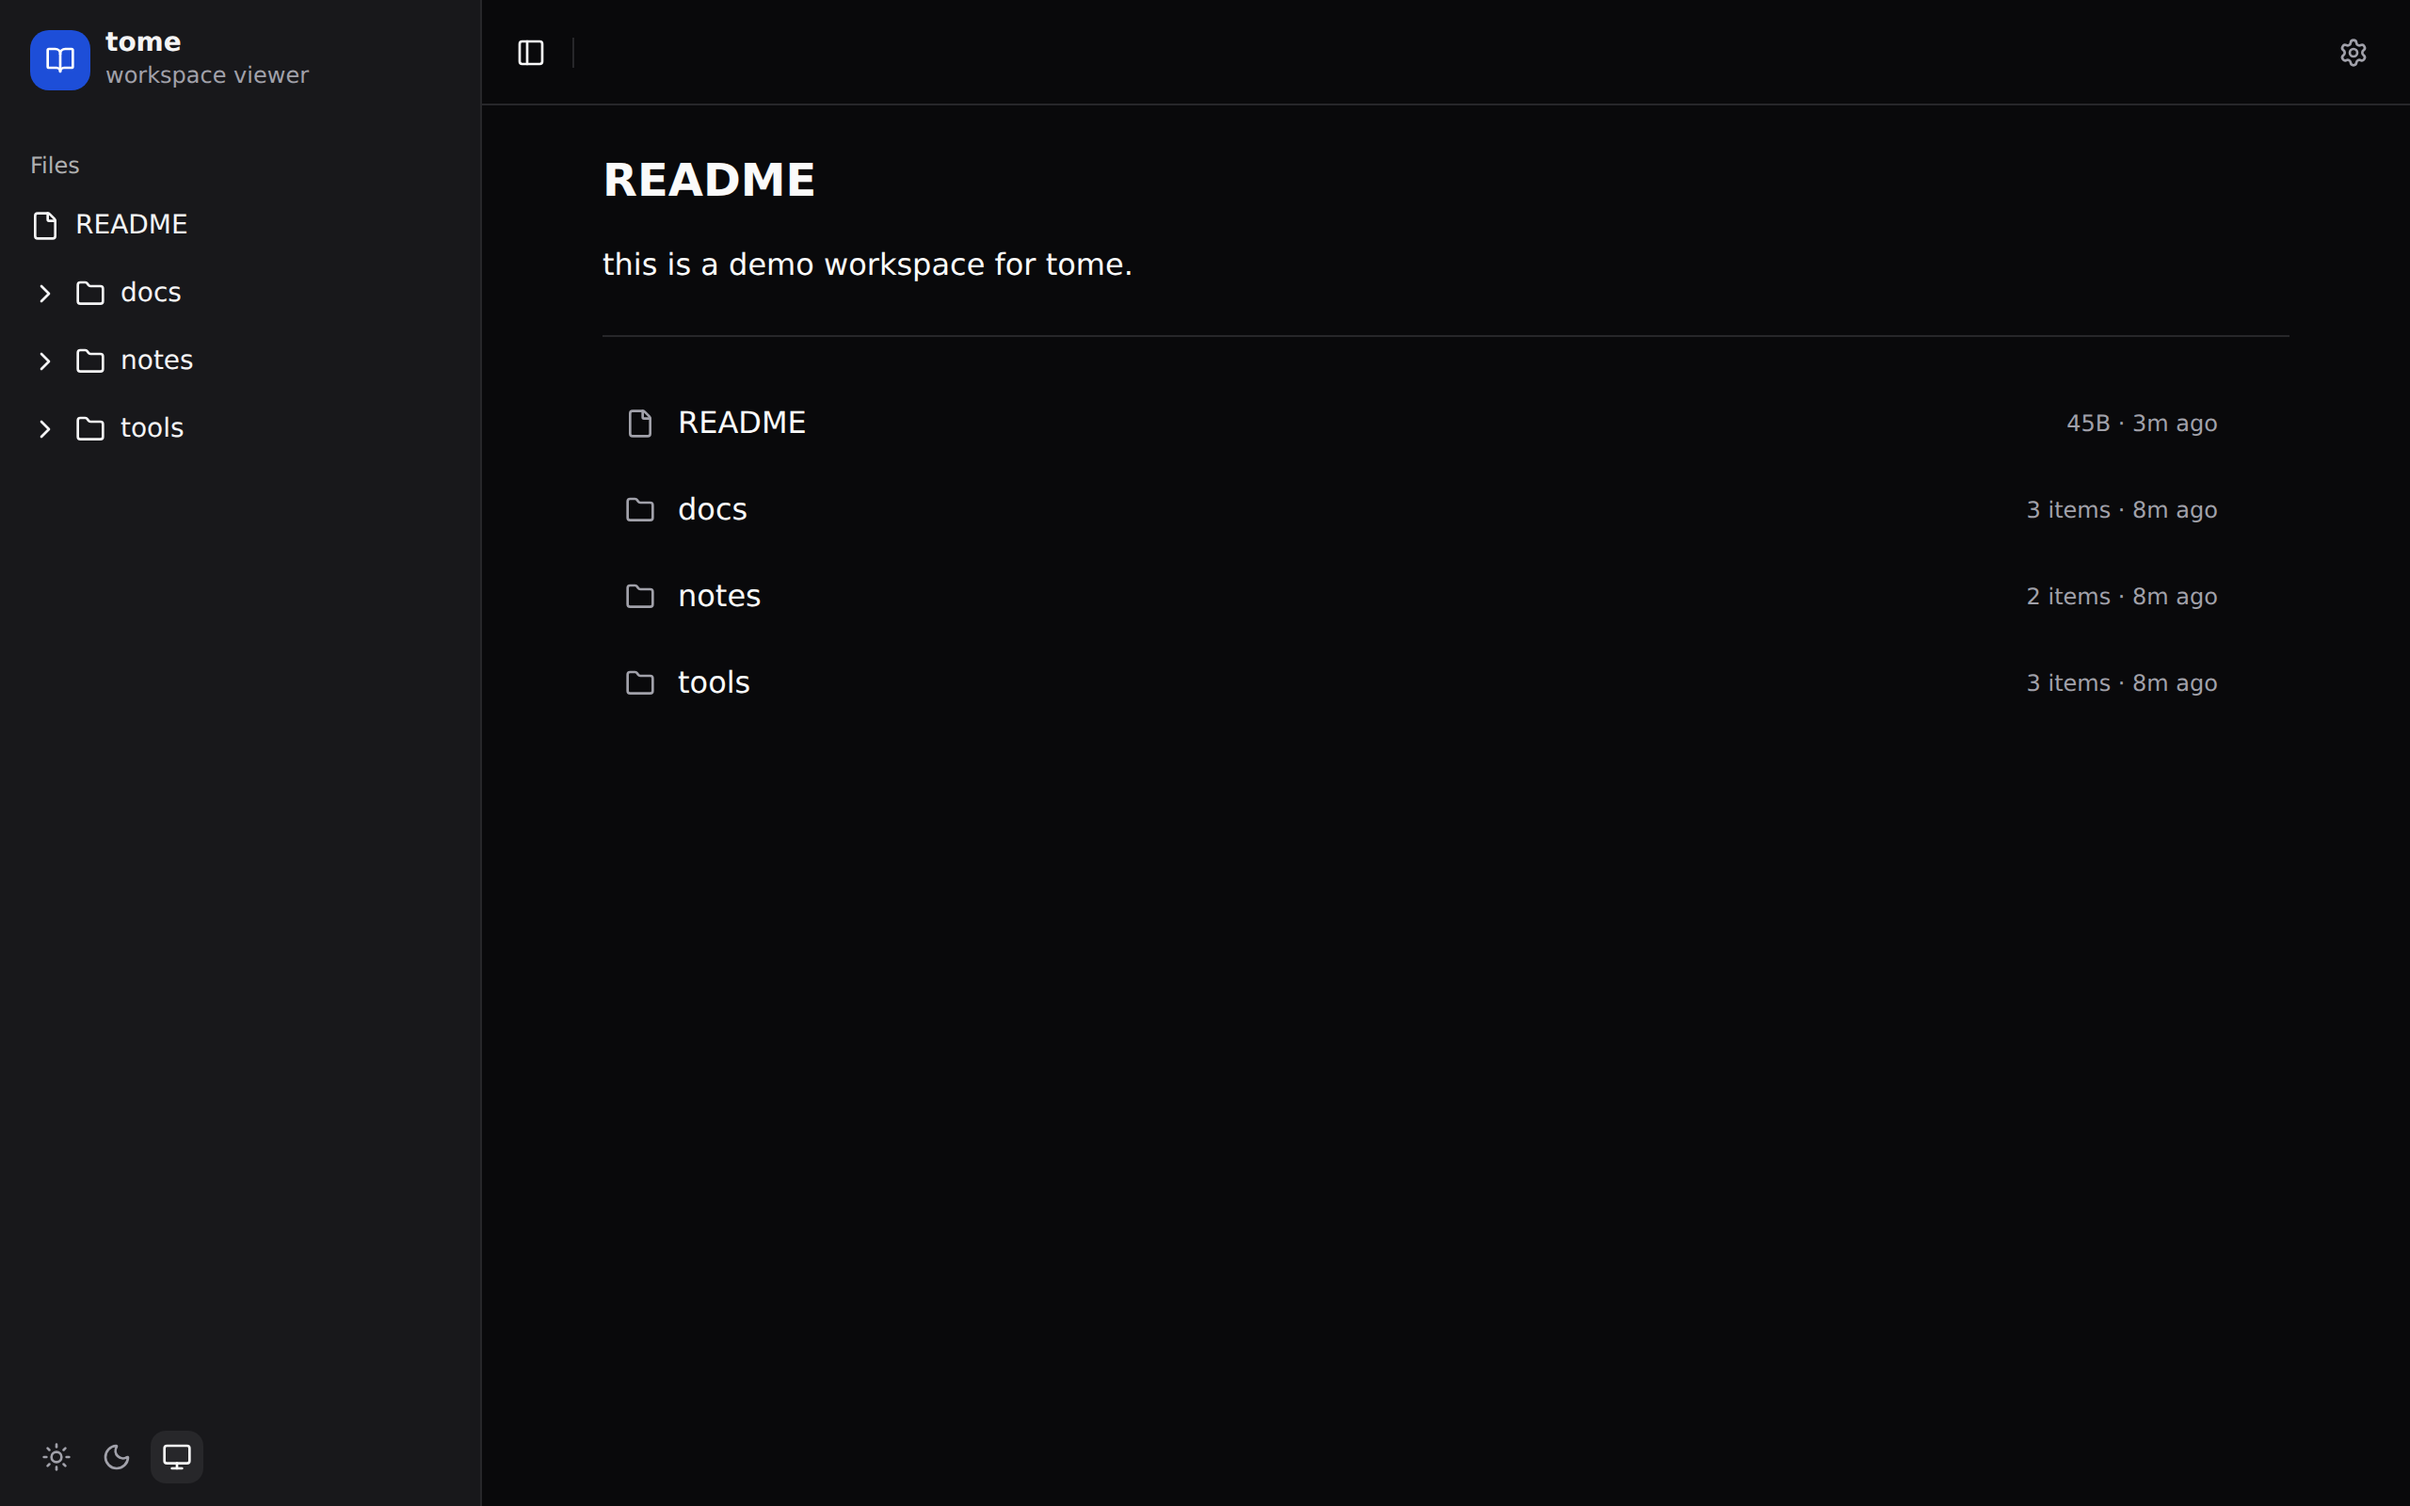
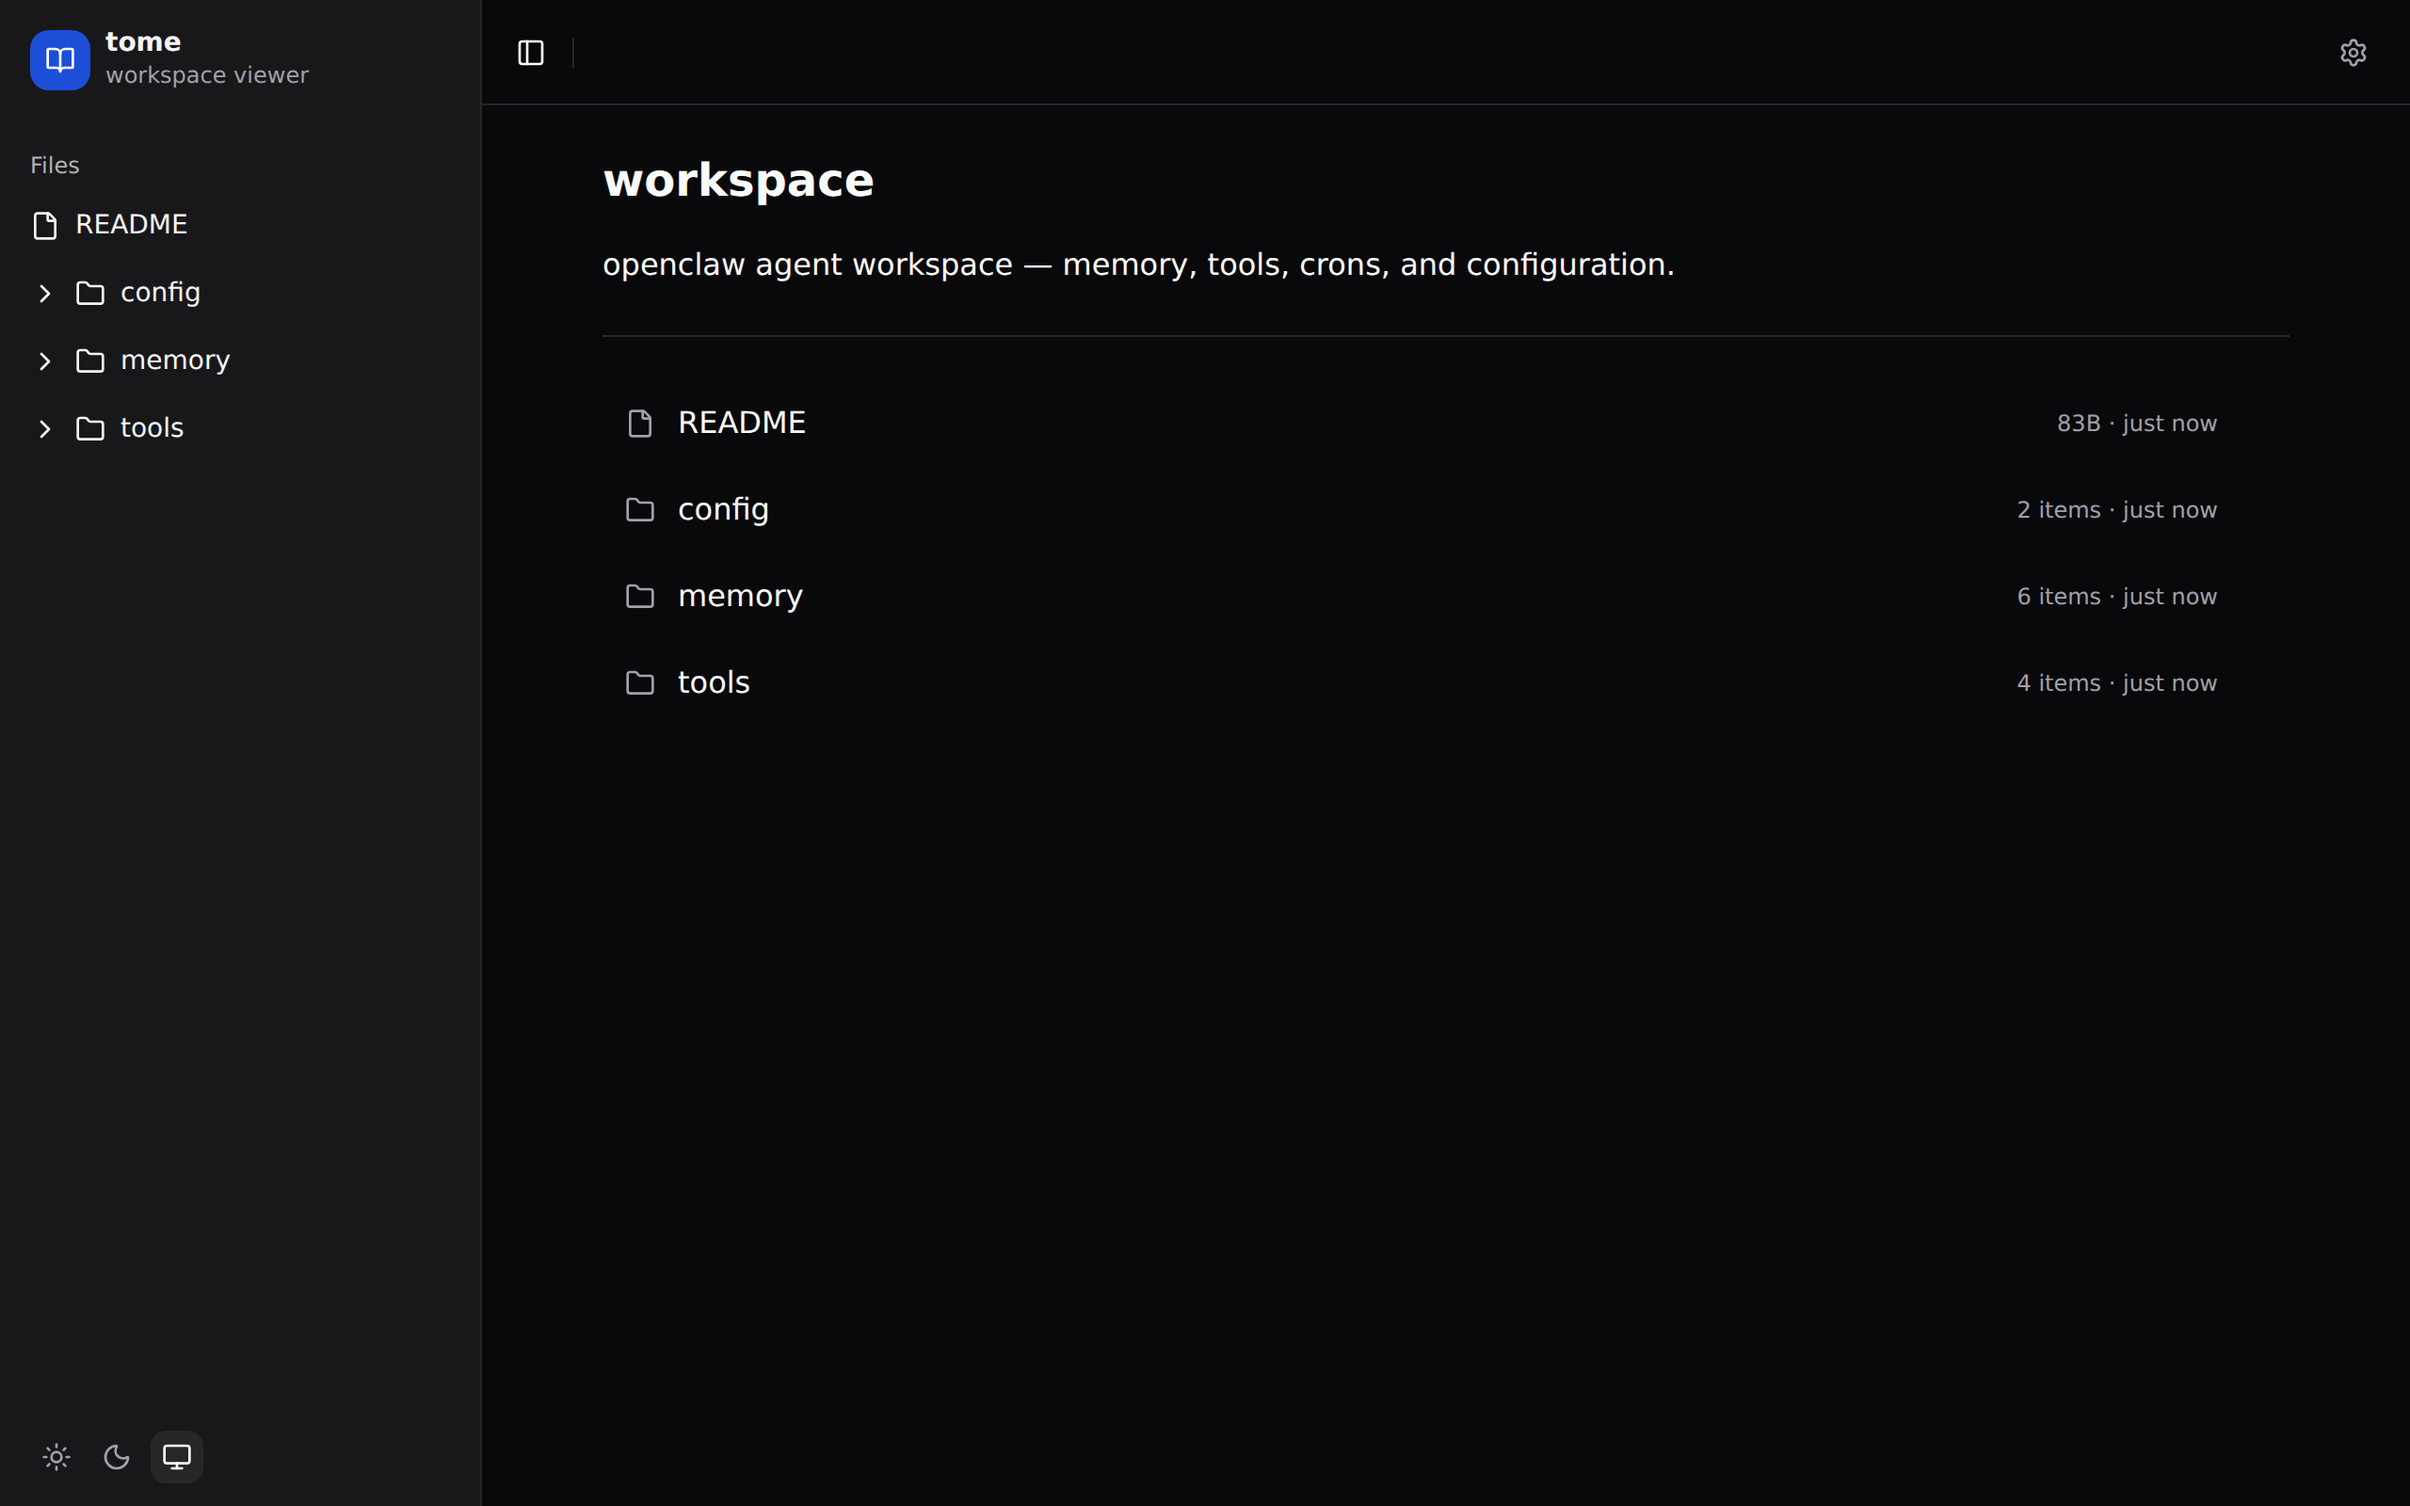
docs: openclaw-focused readme — agent workspace demo, 6 fresh screenshots, real use cases

diff --git a/README.md b/README.md
@@ -1,26 +1,141 @@
 # tome
 
-turn any folder into a browsable site. zero config, live, dark mode.
+turn any folder into a browsable site. built for [openclaw](https://github.com/openclaw/openclaw) agent workspaces.
 
-![tome — zero config](screenshots/01-default.png)
+![tome — zero config, just point at a folder](screenshots/01-default.png)
 
-## features
+## why
 
-- **zero config** — point at a folder, get a website
-- **shadcn/ui** — collapsible sidebar, breadcrumbs, proper components
-- **theme** — system, light, and dark mode with toggle
-- **live reload** — WebSocket-powered, changes appear instantly
-- **config editor** — gear icon on any directory to live-edit `.view.toml`
-- **file types** — markdown, json, toml, yaml, code, images
-- **`.view.toml`** — per-folder config for layout, sorting, theming, metadata
+openclaw agents accumulate knowledge: memory files, daily notes, runbooks, tool configs, lessons learned. tome makes that workspace browsable — for you and for the agent.
+
+- **zero config** — `npx tome .` and you're done
+- **live reload** — file changes appear instantly via websocket
+- **per-folder config** — `.view.toml` to customize any directory
+- **dark mode** — system, light, dark with toggle
 
 ## quick start
 
 ```bash
-npx tome .              # current directory
-npx tome ~/notes        # any folder
-npx tome /var/www/docs  # absolute path
+npx tome .                    # current directory
+npx tome ~/.openclaw/workspace  # agent workspace
+npx tome /var/www/docs        # any folder
 ```
+
+## use cases
+
+### agent workspace overview
+
+give your workspace a title, switch to card layout, and tag your folders.
+
+```toml
+[header]
+title = "maeve's workspace"
+description = "memory, tools, crons, and configuration"
+icon = "M"
+
+[display]
+layout = "cards"
+columns = 2
+showMeta = true
+
+[pages."memory"]
+badge = "core"
+color = "#10b981"
+
+[pages."tools"]
+badge = "automation"
+color = "#3b82f6"
+```
+
+![workspace overview — cards with custom header](screenshots/02-cards.png)
+
+### memory browser
+
+browse the agent's knowledge tree. grid layout works well for folders with mixed content.
+
+```toml
+[header]
+title = "agent memory"
+description = "knowledge tree — topic-based, wiki-linked"
+
+[display]
+layout = "grid"
+columns = 3
+showMeta = true
+sort = "modified"
+```
+
+![memory folder — grid layout, sorted by modified](screenshots/03-memory.png)
+
+### daily notes
+
+session logs sorted by date. see what shipped, what broke, what's next.
+
+```toml
+[header]
+title = "daily notes"
+description = "session logs — what shipped, what broke, what's next"
+
+[display]
+layout = "list"
+sort = "modified"
+showMeta = true
+```
+
+![daily notes — list view, latest first](screenshots/04-daily.png)
+
+### runbooks
+
+rendered markdown with full formatting — headings, code blocks, step-by-step procedures.
+
+![gateway recovery runbook — rendered markdown](screenshots/05-runbook.png)
+
+### tools overview
+
+table layout for quick scanning.
+
+```toml
+[header]
+title = "agent tools"
+description = "scripts, crons, and automation"
+
+[display]
+layout = "table"
+sort = "name"
+showMeta = true
+```
+
+![tools — table layout, sorted by name](screenshots/06-tools.png)
+
+## .view.toml reference
+
+drop a `.view.toml` in any folder. or click the gear icon in the UI.
+
+```toml
+[header]
+title = "my section"
+description = "what this folder contains"
+icon = "S"                    # single character
+
+[display]
+layout = "cards"              # list, cards, grid, table
+sort = "modified"             # name, modified, created, size, type
+columns = 3                   # for cards/grid
+showMeta = true
+groupBy = "type"              # none, type, ext, tag
+
+[theme]
+accent = "#3b82f6"
+compact = false
+
+[pages."README.md"]
+title = "introduction"
+badge = "start here"
+color = "#10b981"
+tags = ["docs", "getting-started"]
+```
+
+every option is live-editable via the gear icon. changes apply instantly.
 
 ## development
 
@@ -29,117 +144,16 @@ git clone https://github.com/safetnsr/tome
 cd tome
 bun install
 
-# dev mode (vite + hot reload)
 bun run dev             # frontend on :5173
 bun run dev:server      # api on :3333
 
-# production
 bun run build
-bun run start           # serves built SPA + API on :3333
+bun run start           # production on :3333
 ```
 
-## .view.toml
+## tech
 
-drop a `.view.toml` in any folder to configure it. or use the gear icon in the UI.
-
-### 2-column card grid
-
-```toml
-[header]
-title = "project hub"
-description = "documentation, tools, and daily notes"
-icon = "P"
-
-[display]
-layout = "cards"
-columns = 2
-showMeta = true
-```
-
-![cards layout — custom title, 2-column grid](screenshots/03-cards.png)
-
-### 3-column grid
-
-```toml
-[header]
-title = "workspace"
-description = "everything in one place"
-
-[display]
-layout = "grid"
-columns = 3
-showMeta = true
-groupBy = "type"
-
-[theme]
-accent = "#8b5cf6"
-```
-
-![grid layout — 3 columns, custom accent](screenshots/04-grid.png)
-
-### table view
-
-```toml
-[header]
-title = "file index"
-description = "sorted by last modified"
-
-[display]
-layout = "table"
-sort = "modified"
-showMeta = true
-```
-
-![table layout — flat list, sorted by modified](screenshots/05-table.png)
-
-### markdown rendering
-
-tome renders markdown files with full formatting — headings, code blocks, lists, inline styles.
-
-![rendered markdown file](screenshots/02-markdown.png)
-
-### all config options
-
-```toml
-[header]
-title = "my project"
-description = "project documentation"
-icon = "P"
-
-[display]
-layout = "cards"          # list, cards, grid, table, timeline
-sort = "modified"         # name, modified, created, size, type, manual
-columns = 3
-showMeta = true
-groupBy = "type"          # none, type, ext, tag
-
-[theme]
-accent = "#3b82f6"
-compact = false
-
-[pages."README.md"]
-title = "introduction"
-style = "hero"
-badge = "start here"
-color = "#10b981"
-tags = ["docs", "getting-started"]
-```
-
-### visual config editor
-
-click the gear icon (top-right) on any directory to open the live config editor:
-
-- **visual mode** — buttons and toggles for layout, sort, theme, header
-- **toml mode** — raw editor with validation
-- **real-time** — changes apply instantly via WebSocket
-- debounced saves (600ms) — type naturally, it saves
-
-## tech stack
-
-- **frontend**: react 19 + shadcn/ui + tailwind css v4
-- **backend**: hono + bun
-- **realtime**: websocket + chokidar file watcher
-- **rendering**: marked (markdown), syntax highlighting (code)
+react 19 + shadcn/ui + tailwind v4 + hono + bun + websocket + chokidar + marked
 
 ## license
 
